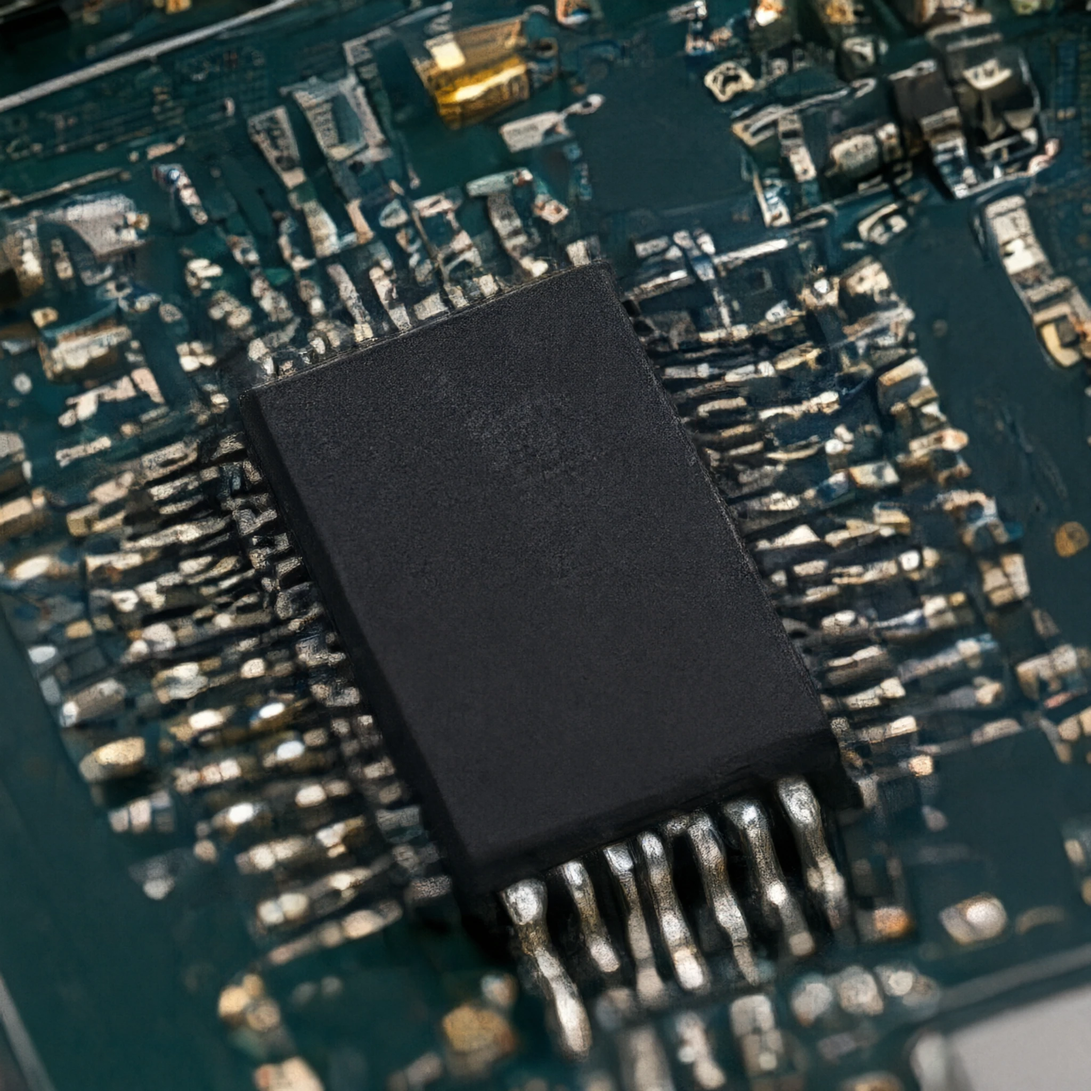
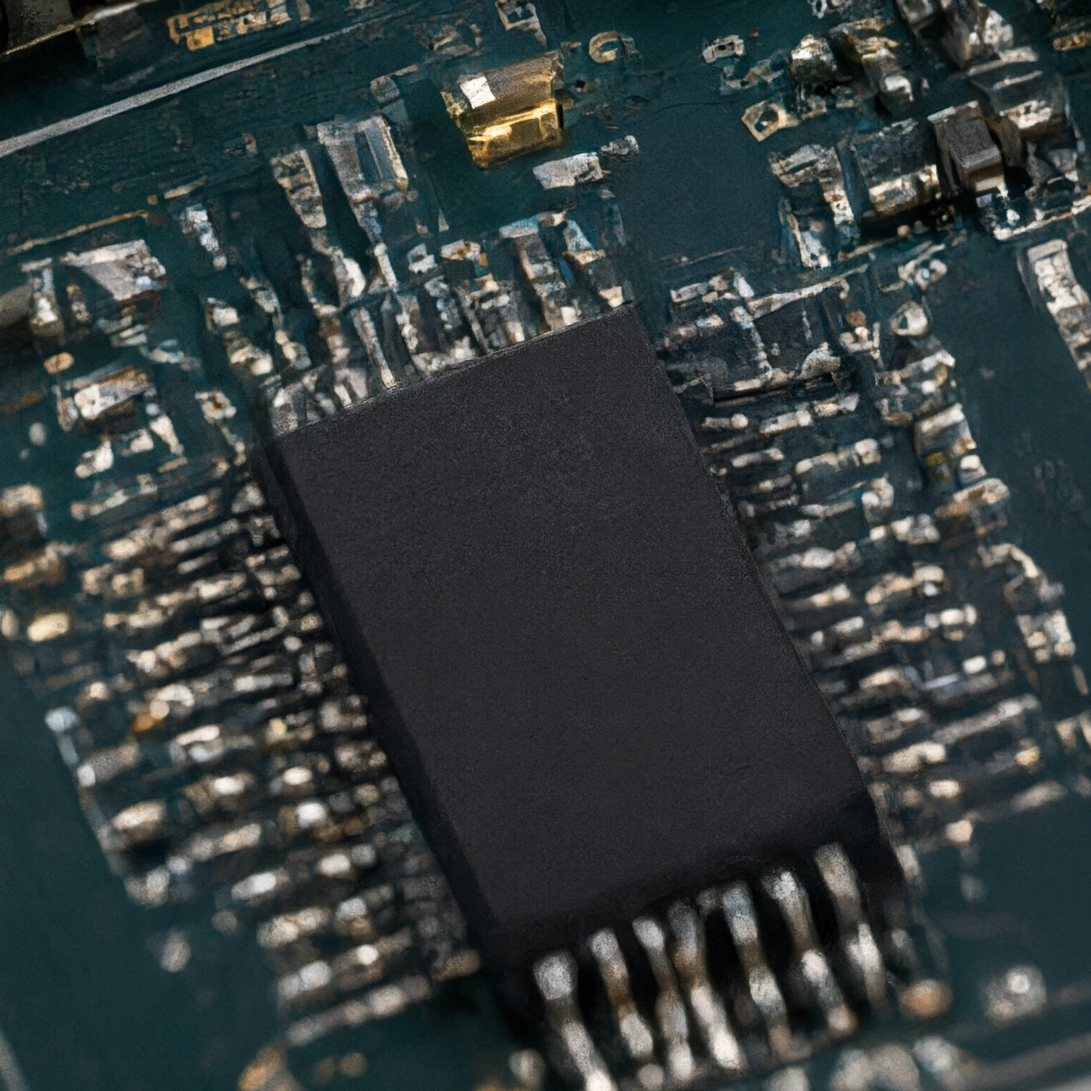
Chip explorer: sharper close-ups, sensible zoom, no seams or empty edges
- Close-ups are re-made from the 4K board, with a prompt that keeps clean
  photographic texture.
- The camera fits each part to about 80% of the screen and never zooms past
  4.5x, so close-ups are never blown up beyond their detail.
- Close-ups have feathered edges, so there is no seam with the board photo.
- The overview shows the whole photo, and the camera never pans past its edge.

Claude-Session: https://claude.ai/code/session_01X9n1NpCvKtFgpk4Hvk89g4

diff --git a/pineapple/site/src/sections/Teardown.tsx b/pineapple/site/src/sections/Teardown.tsx
@@ -6,6 +6,7 @@ import { pad, sm } from '../lib/math';
 
 const BASE = import.meta.env.BASE_URL;
 const IN_MS = 1500, OUT_MS = 1100;
+const FEATHER_EDGES = 'linear-gradient(to right, transparent, #000 9%, #000 91%, transparent), linear-gradient(to bottom, transparent, #000 9%, #000 91%, transparent)';
 /** A camera move: slow to start, glides, settles. */
 const glide = (t: number) => (t < 0.5 ? 4 * t * t * t : 1 - Math.pow(-2 * t + 2, 3) / 2);
 /** Devices whose breakdown has been photographed. */
@@ -36,7 +37,7 @@ export function Teardown({ source, copy = TEARDOWN_COPY }: { source?: ExploreSou
   const steer = useRef(0); // until this time the pointer steers the pan instead of the drift
 
   useEffect(() => {
-    const el = stage.current!; const ro = new ResizeObserver(() => { const W = el.clientWidth, H = el.clientHeight, w = Math.max(W, (H * 16) / 9), h = (w * 9) / 16; setSize({ w, h, ox: (W - w) / 2, oy: (H - h) / 2 }); });
+    const el = stage.current!; const ro = new ResizeObserver(() => { const W = el.clientWidth, H = el.clientHeight, w = Math.min(W, (H * 16) / 9), h = (w * 9) / 16; /* the whole photo in view, so parts at its edges stay reachable */ setSize({ w, h, ox: (W - w) / 2, oy: (H - h) / 2 }); });
     ro.observe(el); return () => ro.disconnect();
   }, []);
   useEffect(() => () => cancelAnimationFrame(raf.current), []);
@@ -94,12 +95,18 @@ export function Teardown({ source, copy = TEARDOWN_COPY }: { source?: ExploreSou
   let s = 1, cx = 0.5, cy = 0.5;
   if (part) {
     const [x0, y0, x1, y1] = part.rect, g = qRef.current;
-    const sT = Math.min(0.92 / (x1 - x0), 1 / (0.6 * (y1 - y0)));
+    // fit the part to ~80% of the visible stage, and never zoom past what its close-up photo can resolve
+    const vw = size.w + 2 * size.ox, vh = size.h + 2 * size.oy;
+    const sT = Math.min(4.5, (0.8 * vw) / ((x1 - x0) * size.w), (0.8 * vh) / ((y1 - y0) * size.h));
     const seen = Math.min(1, 1 / (sT * (y1 - y0))); // share of the part's height in view
     const cyT = y0 + (y1 - y0) * (seen >= 1 ? 0.5 : seen / 2 + (1 - seen) * pan);
     s = Math.exp(Math.log(sT) * g); cx = 0.5 + ((x0 + x1) / 2 - 0.5) * g; cy = 0.5 + (cyT - 0.5) * g;
   }
-  const tx = size.ox + size.w * 0.5 - s * cx * size.w, ty = size.oy + size.h * 0.5 - s * cy * size.h;
+  const stW = size.w + 2 * size.ox, stH = size.h + 2 * size.oy, pw = size.w * s, ph = size.h * s;
+  let tx = size.ox + size.w * 0.5 - s * cx * size.w, ty = size.oy + size.h * 0.5 - s * cy * size.h;
+  // once zoomed past the stage, never pan beyond the photo's edge
+  if (pw > stW) tx = Math.min(0, Math.max(stW - pw, tx));
+  if (ph > stH) ty = Math.min(0, Math.max(stH - ph, ty));
   const toScreen = (x: number, y: number) => ({ left: tx + s * x * size.w, top: ty + s * y * size.h });
   const arrived = sm(0.8, 1, q);
   const L = sel >= 0 ? layers[sel] : null;
@@ -130,7 +137,9 @@ export function Teardown({ source, copy = TEARDOWN_COPY }: { source?: ExploreSou
                 const r = data.parts[l.id]?.rect; if (!r) return null;
                 return (
                   <img key={l.id} src={img(dir, l.id)} alt="" aria-hidden="true" loading="lazy" decoding="async"
-                    className="absolute object-cover" style={{ left: `${r[0] * 100}%`, top: `${r[1] * 100}%`, width: `${(r[2] - r[0]) * 100}%`, height: `${(r[3] - r[1]) * 100}%`, opacity: i === shown ? sm(0.55, 1, q) : 0 }} />
+                    className="absolute object-cover" style={{ left: `${r[0] * 100}%`, top: `${r[1] * 100}%`, width: `${(r[2] - r[0]) * 100}%`, height: `${(r[3] - r[1]) * 100}%`, opacity: i === shown ? sm(0.55, 1, q) : 0,
+                      // feathered edges: the close-up melts into the photo around it, no seam
+                      maskImage: FEATHER_EDGES, WebkitMaskImage: FEATHER_EDGES, maskComposite: 'intersect', WebkitMaskComposite: 'source-in' }} />
                 );
               })}
             </div>

diff --git a/pineapple/assets/higgsfield/README.md b/pineapple/assets/higgsfield/README.md
@@ -246,3 +246,4 @@ Request IDs: `speaker-dive`, `speaker-bass`, `speaker-cutaway` in the session lo
 - `chip-board.png` / `chip-board-4k.jpg`: the logic board macro (chip in a steel retention frame), sharpened to 4096 px in quarters; `chip-board-<part>.jpg` close-ups; `4k-board-dive.mp4`: the 4K move from the board into the processor (shot 7). Request IDs `board*` in the session log.
 
 Second 4K batch: `4k-turn-*` (finish turntables), `4k-water-v2`, `4k-slate-edge-v2`, `4k-sound-bass-v2`, `4k-speaker-dive`, `4k-speaker-bass-v2`, `4k-shot8`. Every footage scene on the site is now sourced from 4K.
+- `chip-board-<part>.jpg` re-made from the 4K board (`inputs/board4-*.jpg`) for sharper, cleaner close-ups.
